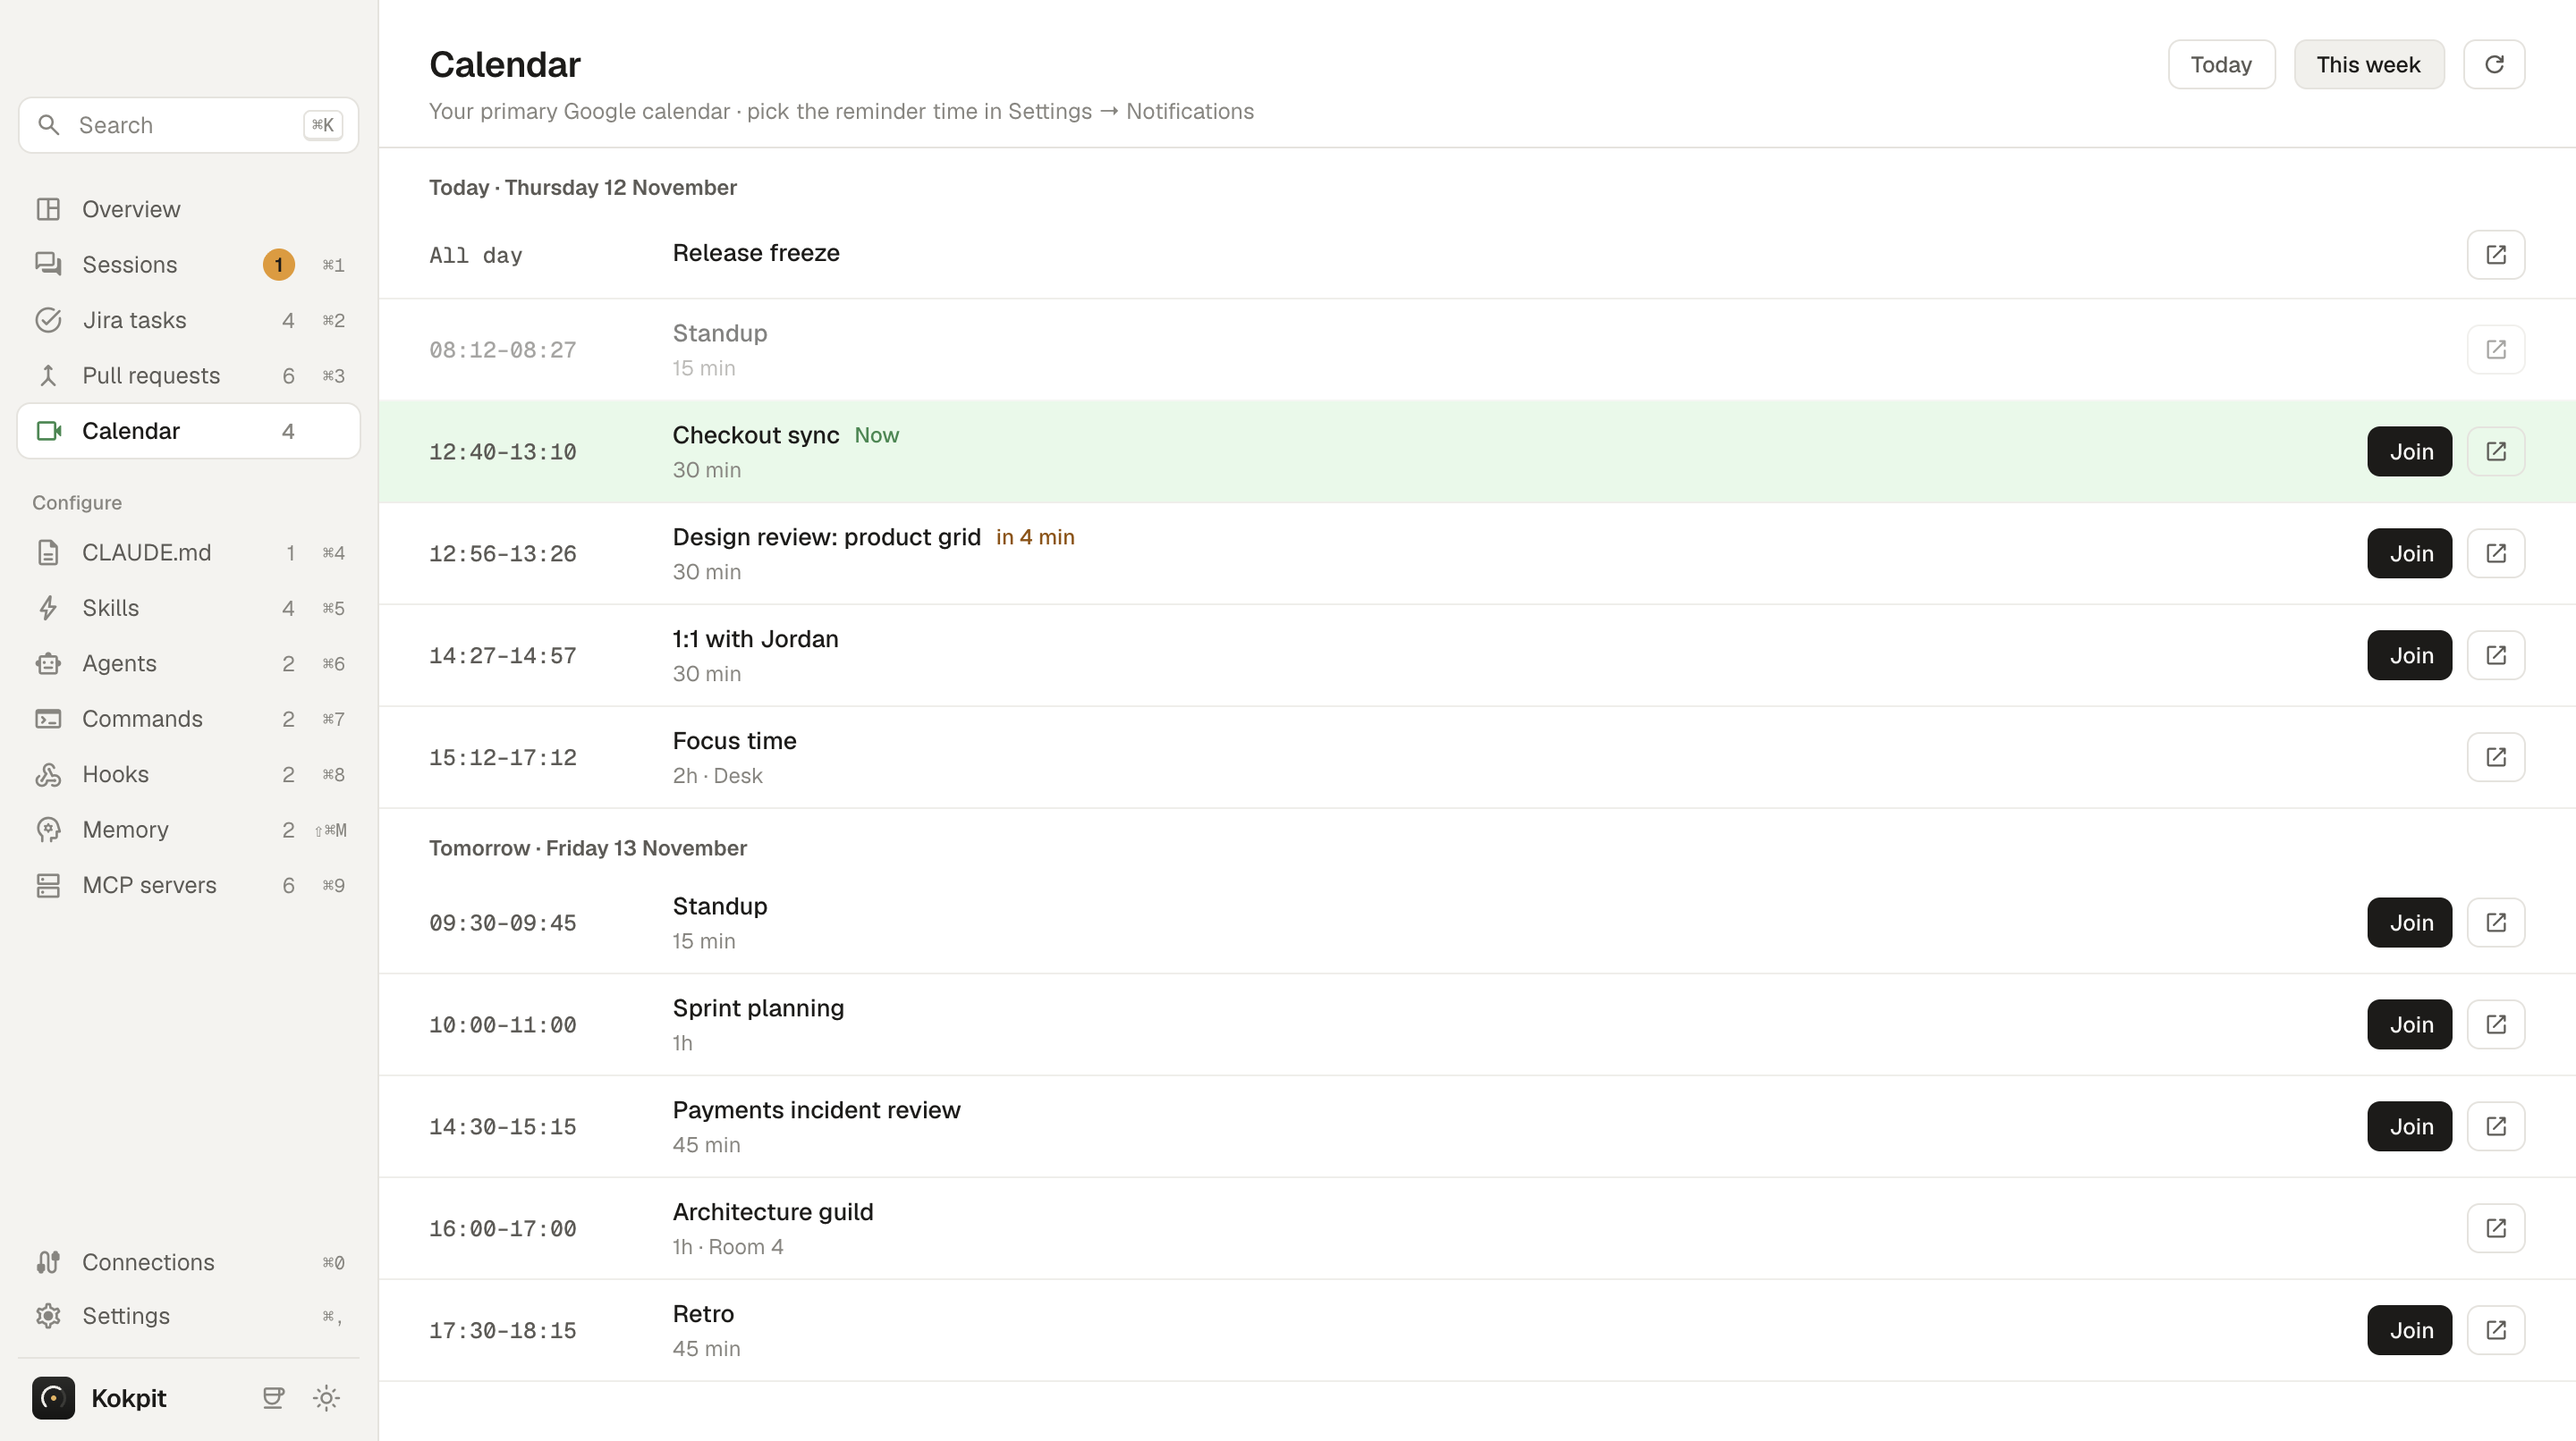
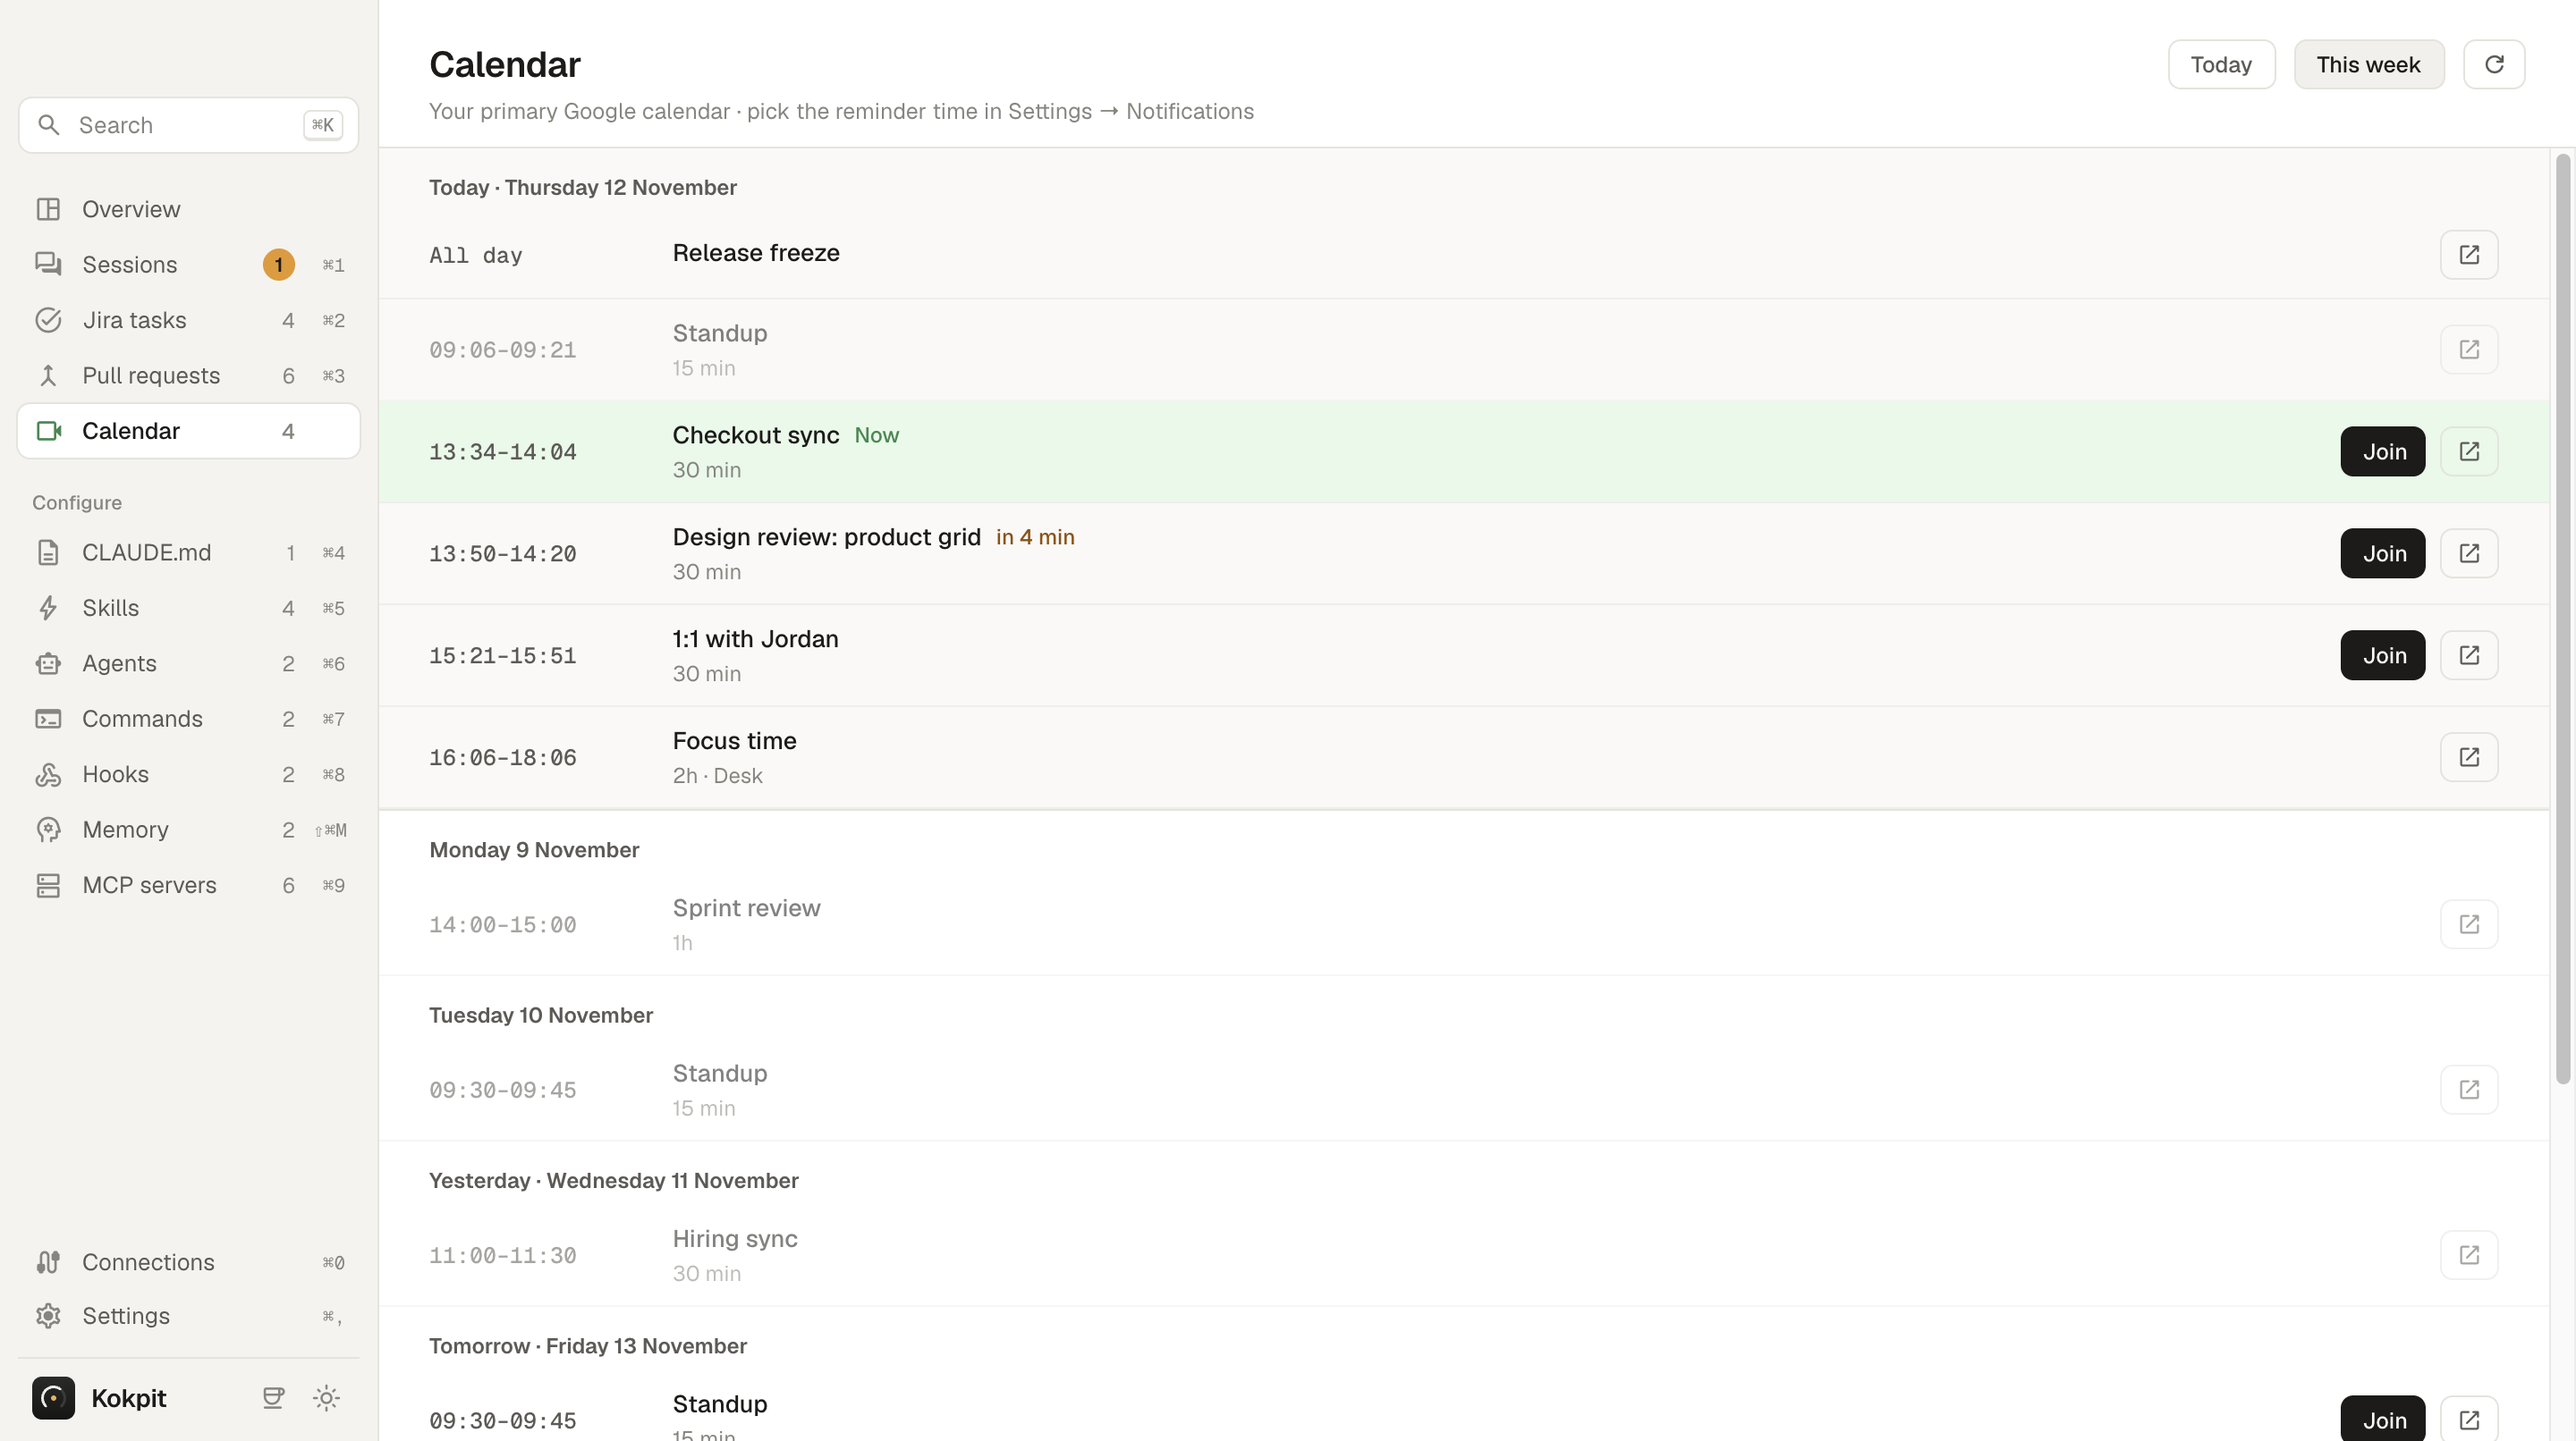
Pin today's meetings to the top of the week view with a softer background

diff --git a/src/renderer/src/pages/CalendarPage.tsx b/src/renderer/src/pages/CalendarPage.tsx
@@ -25,6 +25,11 @@ export function groupByDay(events: CalendarEvent[]): { day: Date; events: Calend
     .map((g) => ({ ...g, events: g.events.sort((a, b) => Number(b.allDay) - Number(a.allDay) || startOf(a).getTime() - startOf(b).getTime()) }))
 }
 
+export function todayFirst<T extends { day: Date }>(groups: T[], nowMs: number): T[] {
+  const today = dayKey(new Date(nowMs))
+  return [...groups.filter((g) => dayKey(g.day) === today), ...groups.filter((g) => dayKey(g.day) !== today)]
+}
+
 export function whenLabel(e: CalendarEvent, nowMs: number): { text: string; tone: 'now' | 'soon' | 'past' | '' } {
   if (e.allDay) return { text: '', tone: '' }
   const start = Date.parse(e.start)
@@ -145,7 +150,7 @@ export function CalendarPage({ onConnect }: { onConnect: () => void }) {
     }
   }, [api, range, attempt])
 
-  const groups = events ? groupByDay(events) : []
+  const groups = events ? todayFirst(groupByDay(events), now) : []
   const tab = (id: CalendarRange, label: string) => (
     <button
       key={id}
@@ -200,8 +205,15 @@ export function CalendarPage({ onConnect }: { onConnect: () => void }) {
         ) : !groups.length ? (
           <div style={{ padding: '18px 28px', fontSize: 13, color: 'var(--tx3)' }}>{range === 'day' ? 'No meetings today.' : 'No meetings this week.'}</div>
         ) : (
-          groups.map((g) => (
-            <section key={g.day.toISOString()}>
+          groups.map((g, i) => (
+            <section
+              key={g.day.toISOString()}
+              style={
+                range === 'week' && i === 0 && dayKey(g.day) === dayKey(new Date(now))
+                  ? { position: 'sticky', top: 0, zIndex: 1, background: 'var(--bg)', borderBottom: '1px solid var(--line)' }
+                  : undefined
+              }
+            >
               <div style={{ padding: '14px 28px 6px', fontSize: 12, fontWeight: 600, color: 'var(--tx2)' }}>{dayTitle(g.day, now)}</div>
               {g.events.map((e) => (
                 <EventRow key={`${e.id}:${e.start}`} e={e} nowMs={now} />

diff --git a/src/renderer/src/pages/CalendarPage.test.ts b/src/renderer/src/pages/CalendarPage.test.ts
@@ -1,6 +1,6 @@
 import { expect, test } from 'vitest'
 import { meetingState, meetingsLeft } from '@/data/useCounts'
-import { groupByDay, whenLabel } from './CalendarPage'
+import { groupByDay, todayFirst, whenLabel } from './CalendarPage'
 
 const ev = (id: string, start: string, end: string, extra: Record<string, unknown> = {}) => ({ id, title: id, start, end, allDay: false, meetUrl: '', url: '', location: '', response: 'accepted' as const, ...extra })
 
@@ -37,4 +37,11 @@ test('the sidebar marks a meeting in progress and one starting within the remind
   expect(meetingState([soon, later], now, 5)).toEqual({ state: 'soon', title: 'Review starts in 3 min' })
   expect(meetingState([soon, later], now, 1)).toBeUndefined()
   expect(meetingState([ev('No', '2026-11-11T09:55:00Z', '2026-11-11T10:15:00Z', { response: 'declined' })], now, 5)).toBeUndefined()
+})
+
+test('the week view lists today first, then the other days in order', () => {
+  const now = new Date(2026, 10, 12, 13, 0).getTime()
+  const day = (d: number) => ({ day: new Date(2026, 10, d) })
+  expect(todayFirst([day(9), day(11), day(12), day(13)], now).map((g) => g.day.getDate())).toEqual([12, 9, 11, 13])
+  expect(todayFirst([day(13), day(14)], now).map((g) => g.day.getDate())).toEqual([13, 14])
 })
